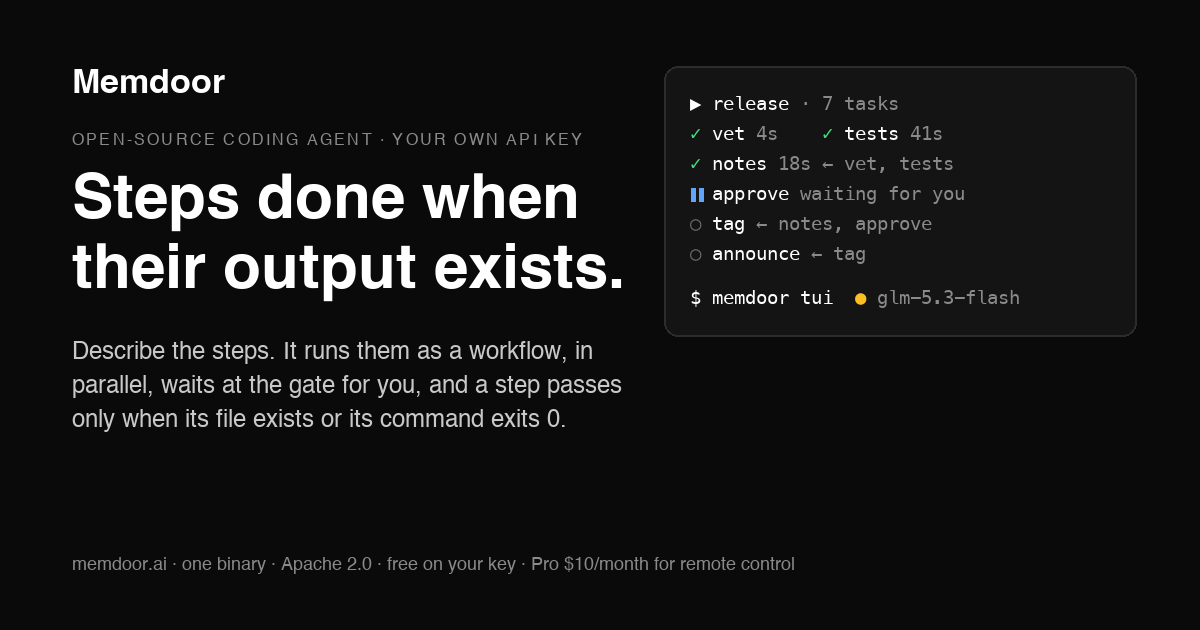
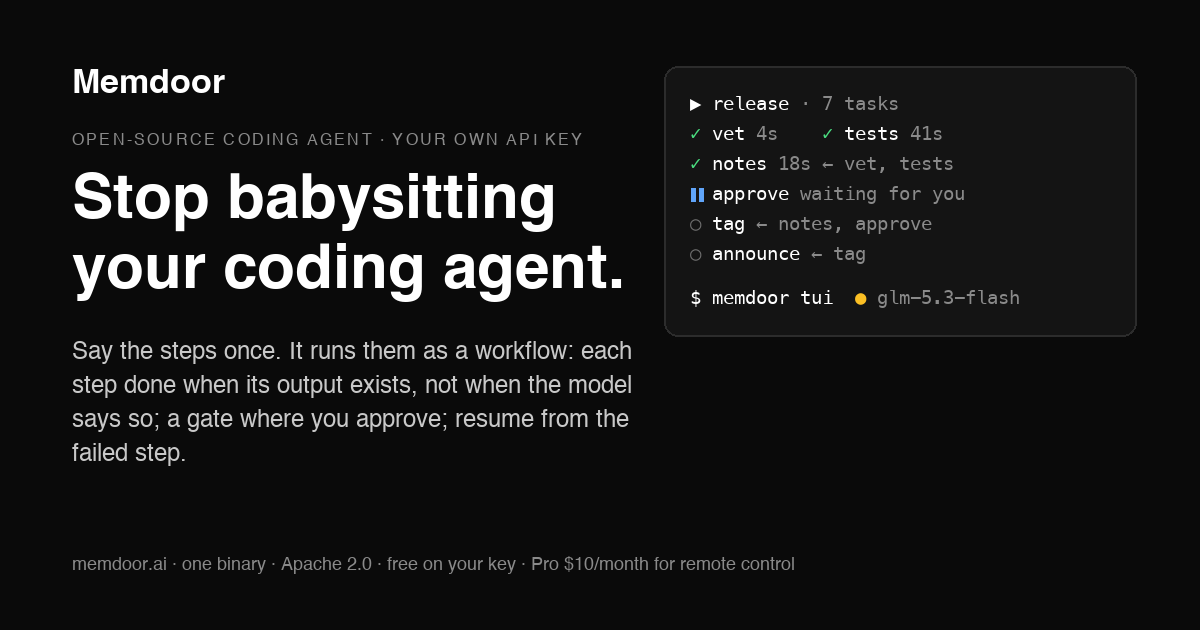
Memdoor v1.526.0-wiki

Changed region(s): [[0.0617, 0.2714, 0.5242, 0.4825], [0.0617, 0.5429, 0.5242, 0.754]]

diff --git a/web/src/components/CoderLandingPage.tsx b/web/src/components/CoderLandingPage.tsx
@@ -41,8 +41,8 @@ const MEASURED: { work: string; off: string; on: string; saved: string }[] = [
 // The hero's three cards are what a workflow gives that a chat does not
 // (Greg, 2026-10-04: the hero "does not show off the powerfulness of workflow").
 const HERO_PROOF: { value: string; label: string }[] = [
-  { value: 'Checked', label: 'a step is done when the file it names exists or its command passes' },
-  { value: 'Gated', label: 'the run stops at a step only you can approve, with the diff in front of you' },
+  { value: 'Checked', label: 'a step is done when its file exists or its command exits 0, not when the model says so' },
+  { value: 'Gated', label: 'the run stops where only you can approve, with the diff in front of you' },
   { value: 'Resumable', label: 'a failed run starts again at the failed step' },
 ];
 
@@ -185,11 +185,11 @@ export function CoderLandingPage() {
               Open-source coding agent for the terminal · your own API key · Apache 2.0
             </div>
             <h1 className="mb-5 text-4xl font-bold leading-[1.05] tracking-tight sm:text-5xl xl:text-6xl">
-              A coding agent whose steps are done when their output exists.
+              Stop babysitting your coding agent.
             </h1>
             <p className="mx-auto mb-8 max-w-xl text-lg text-neutral-300 lg:mx-0">
-              Describe the steps. It writes them as a workflow, runs them in parallel, waits at the gate for you,
-              and a step passes only when its file exists or its command exits 0.
+              Say the steps once. Memdoor runs them as a workflow and comes back when it needs you. On your own API
+              key, free.
             </p>
             <ul className="mx-auto mb-8 max-w-xl space-y-2 text-left text-sm text-neutral-300 lg:mx-0">
               {HERO_PROOF.map((p) => (

diff --git a/README.md b/README.md
@@ -1,7 +1,7 @@
 <div align="center">
   <img src="web/public/memdoor-logo.png" alt="Memdoor" width="128" height="128">
   <h1>Memdoor</h1>
-  <p><strong>A coding agent whose steps are done when their output exists.</strong></p>
+  <p><strong>Stop babysitting your coding agent. Say the steps once; each one is done when its output exists, not when the model says so.</strong></p>
   <p>
     <a href="LICENSE"><img alt="Apache 2.0" src="https://img.shields.io/badge/license-Apache%202.0-blue"></a>
     <a href="https://github.com/guregodevo/memdoor/actions/workflows/ci.yml"><img alt="CI" src="https://github.com/guregodevo/memdoor/actions/workflows/ci.yml/badge.svg"></a>
